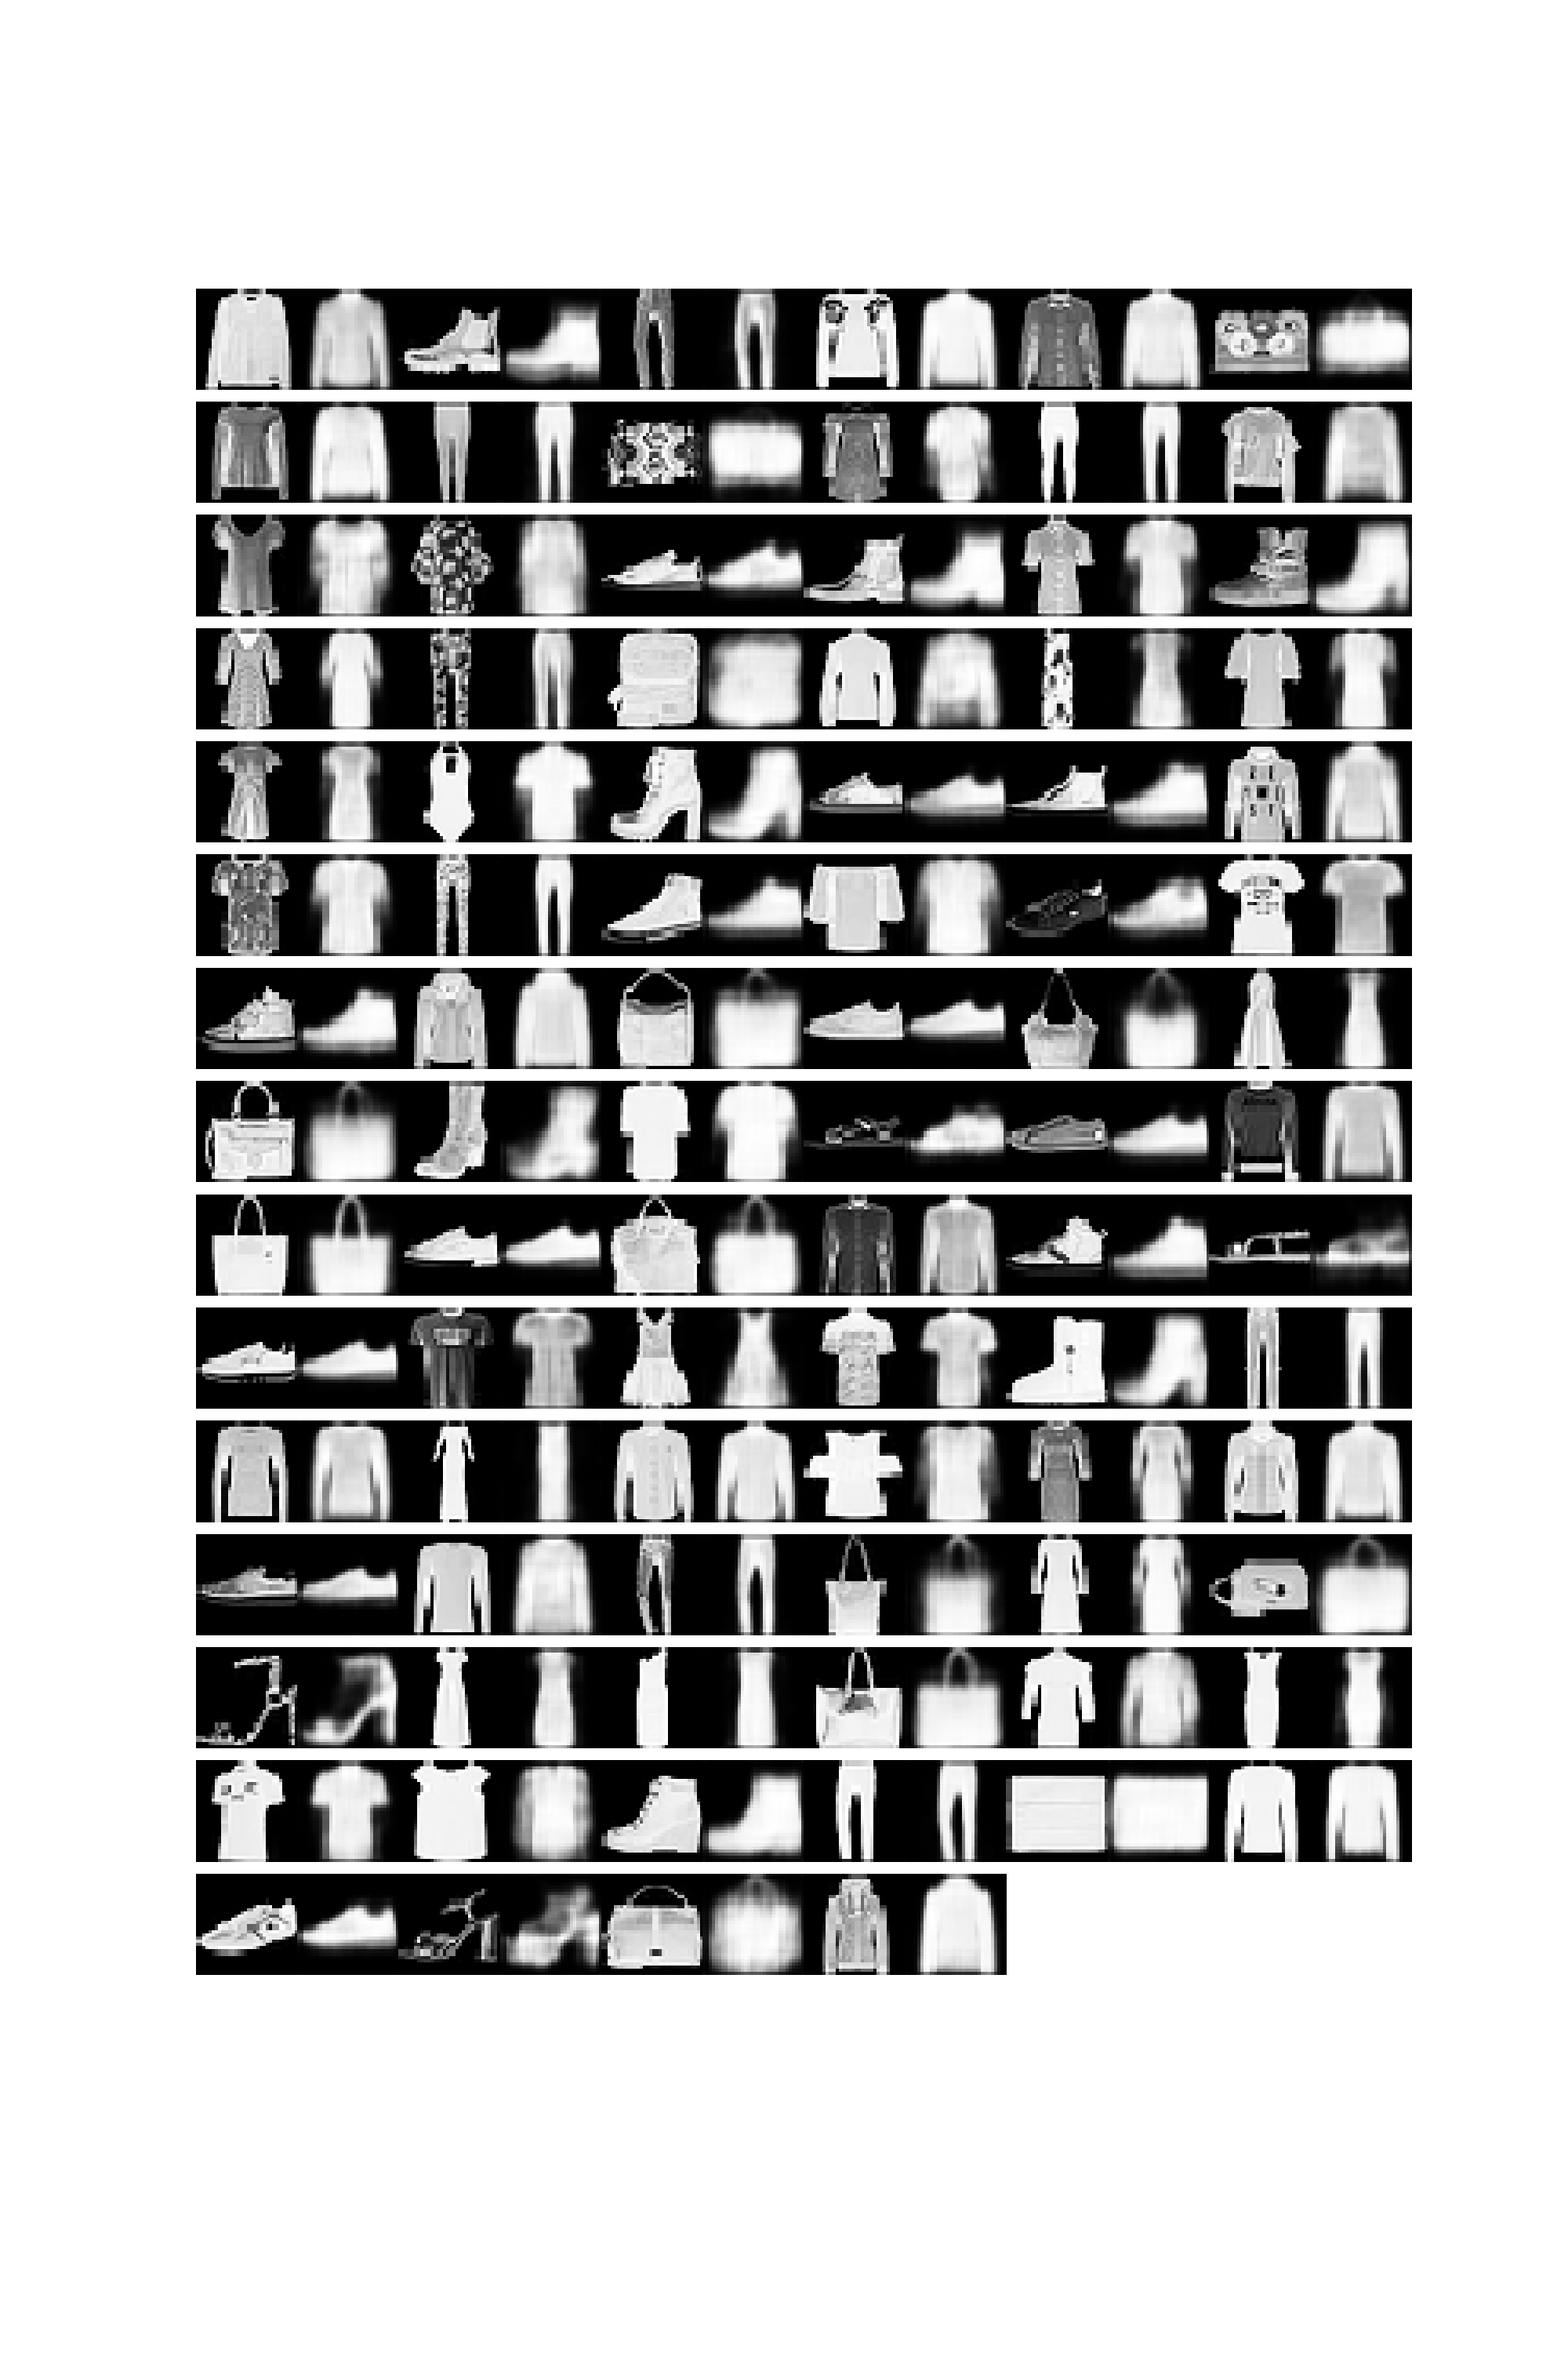
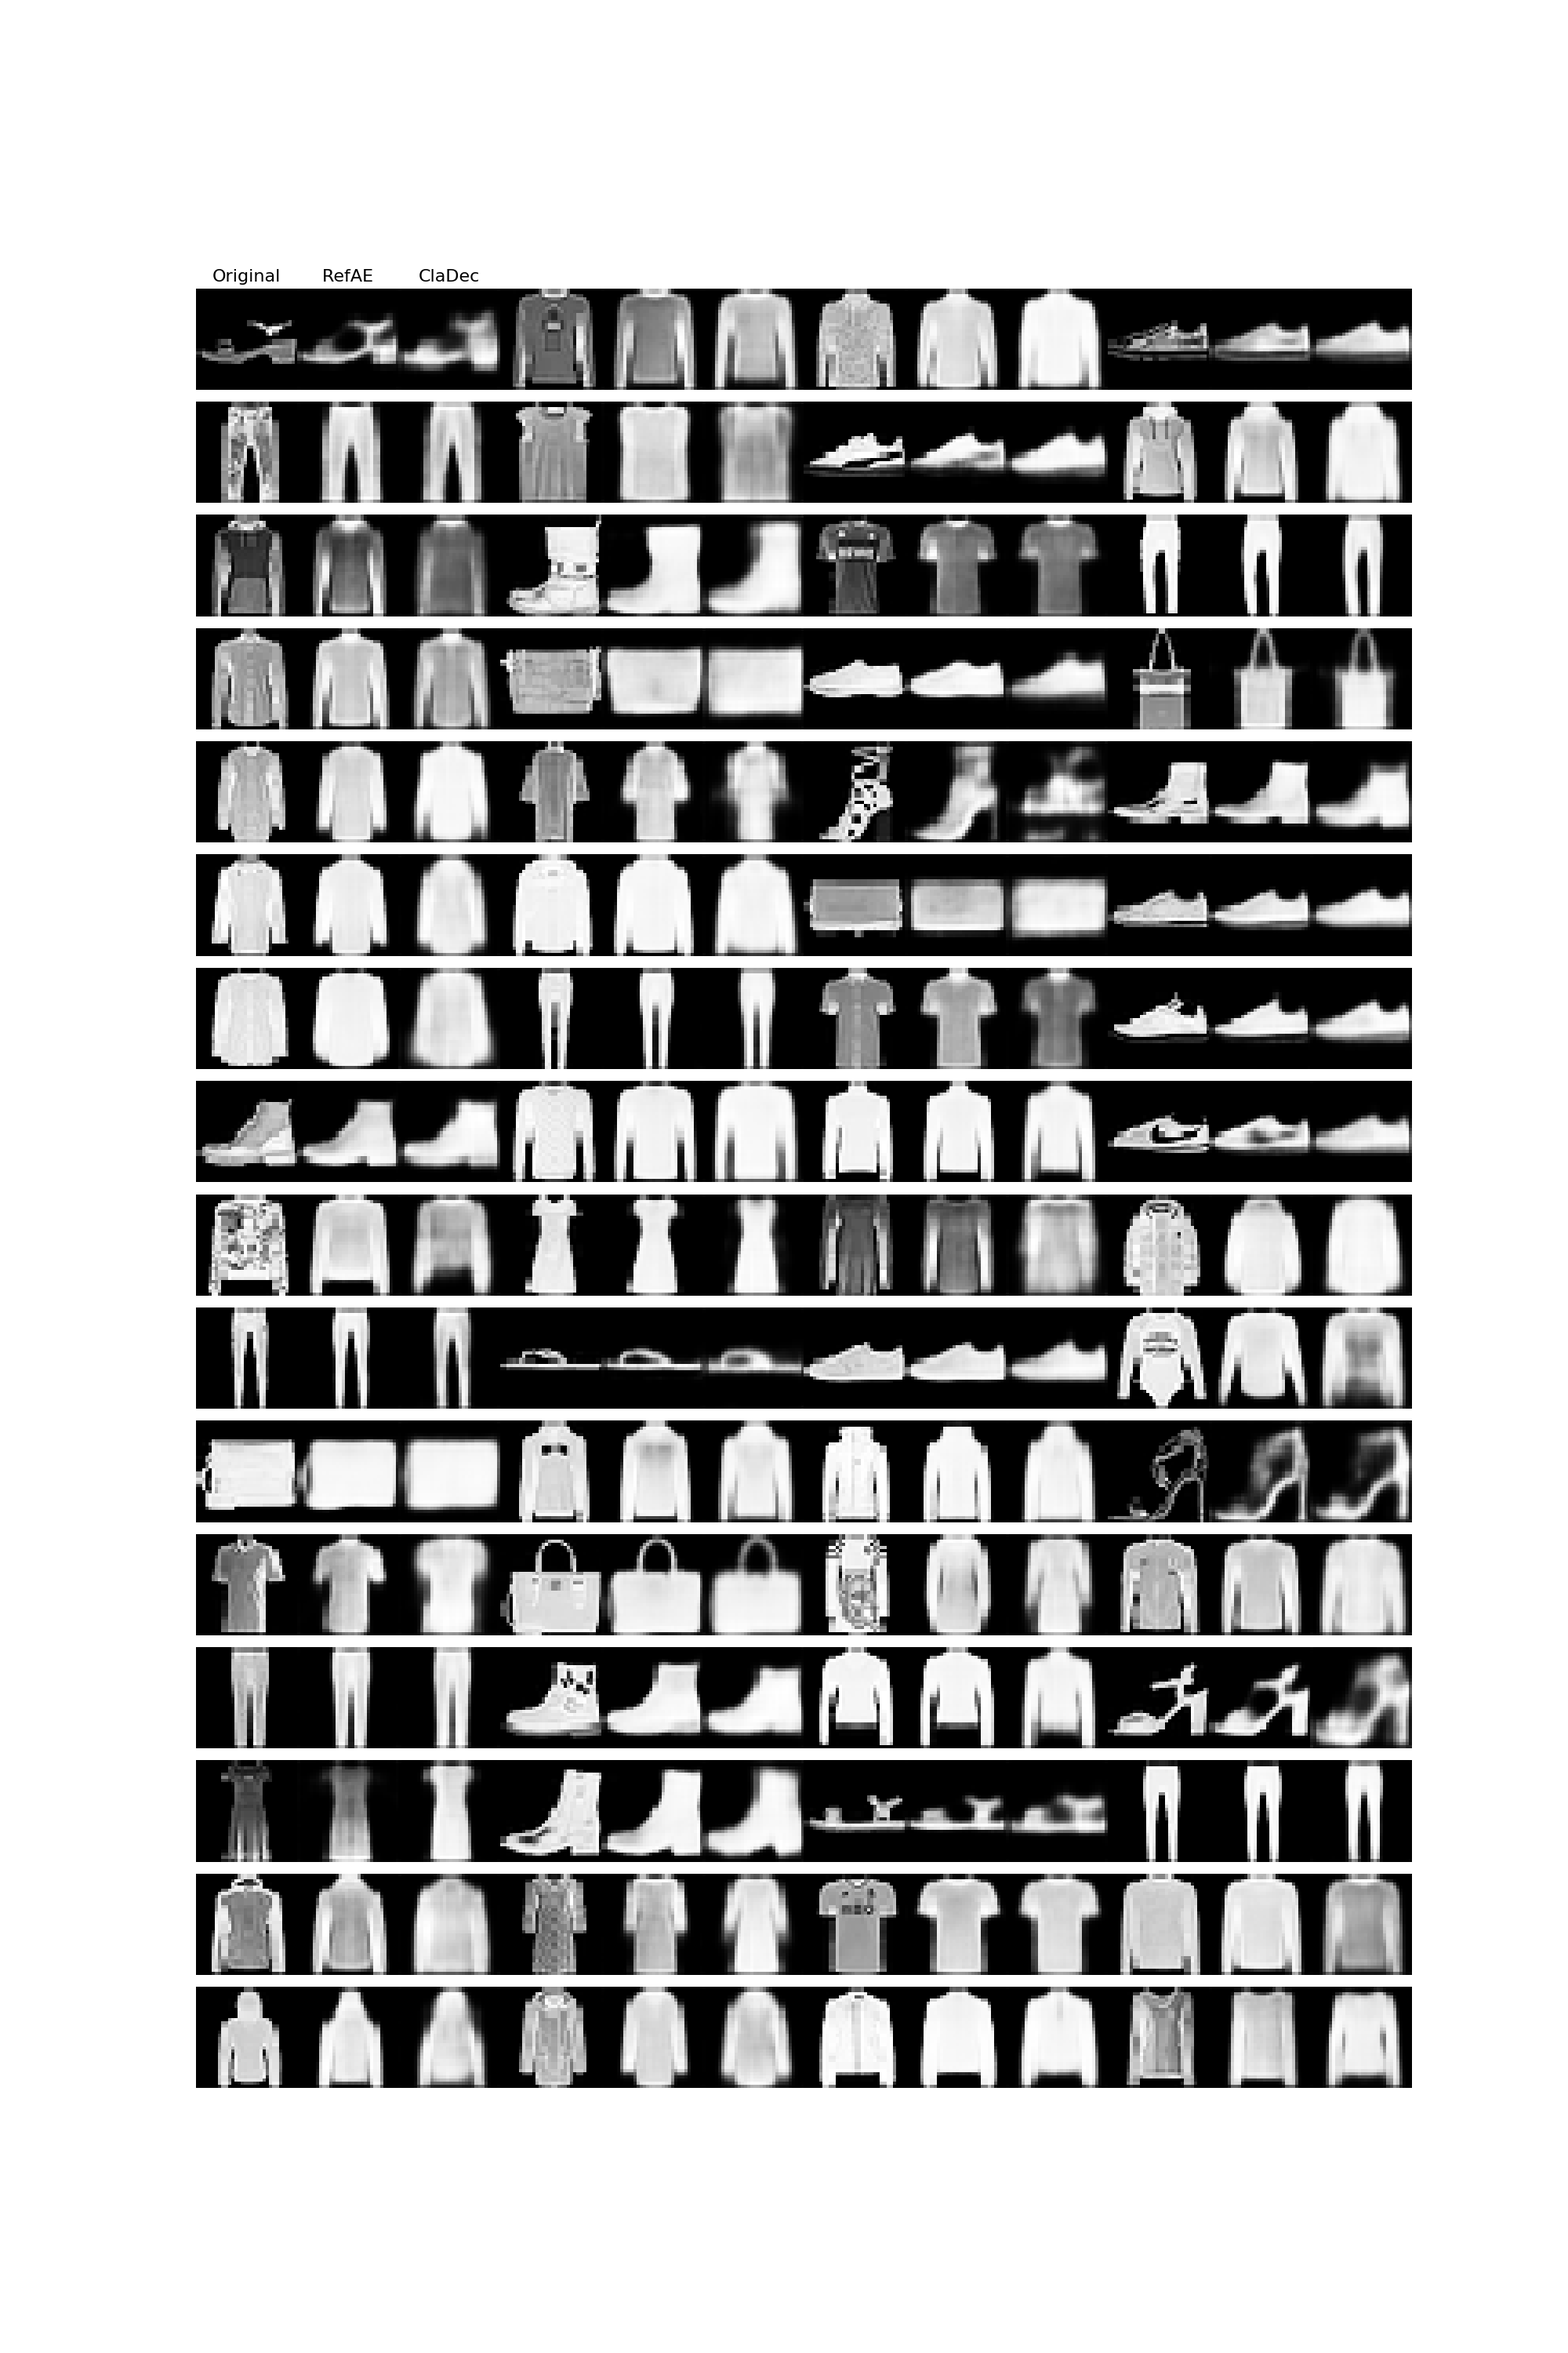
RefAE

diff --git a/runMe.py b/runMe.py
@@ -16,8 +16,8 @@ def showPics(pics, mtit="", tits =None,nrows = 16,ncols=12,fname="expPics"):
         for j in range(picPerFig):
             if i * picPerFig + j == pics.shape[0]: break
             ax1 = plt.subplot(nrows, (picPerFig - 1) // nrows + 1, j + 1)
-            if not tits is None:
-               tit=ax1.set_title(str(tits[i*picPerFig + j]), fontsize=10)
+            if not tits is None and i*picPerFig + j<len(tits):
+               tit=ax1.set_title(str(tits[i*picPerFig + j]), fontsize=16)
                plt.setp(tit, color='black')
             cpic=pics[i * picPerFig + j].squeeze()
             ax1.set_xticklabels([])
@@ -30,34 +30,7 @@ def showPics(pics, mtit="", tits =None,nrows = 16,ncols=12,fname="expPics"):
         plt.close()
         if i * picPerFig + j >= pics.shape[0] - 1: break
 
-def trainOne():
-    dummy=False
-    #dummy = True
-    cfg={ 'ds': ('Fash', 10),  #Dataset either  ('Ci100', 100) or ('Ci10', 10)
-          'batchSize': 128, 'opt': ('S', 1 if dummy else 64, 0.1, 0.0001), #optimizer settings
-          'layInd':-2, #Layer to explain (from last layer back, ie. -1 is last)
-          'alpha': 0.01, #tradeoff parameter reconstruction vs. classification loss
-          'ntrain': 500 if dummy else 60000}
-    print("Executing config",cfg)
-    cfg["num_classes"]=cfg["ds"][1]
-    #Get Data
-    print("Get dataset")
-    train_dataset, val_dataset,norm=dutils.getFullDS(cfg)
-
-    # Train and save non-reflective Model
-    classifier, lcfg = clModel.getclassifier(cfg,  train_dataset, val_dataset, norm=norm)
-    print("Classifier Accuracy",lcfg)
-
-    acts = []
-    def get_activation():
-        def hook(model, input, output):
-            nonlocal acts
-            acts.append(output.detach().cpu())
-        return hook
-    laytoExp = classifier.allExplainLays[cfg["layInd"]]
-    laytoExp.register_forward_hook(get_activation())
-    def getActs(ds):
-        nonlocal acts
+def getActs(ds,actModel,cfg):
         acts=[]
         X,y=[],[]
         for i, data in enumerate(ds):
@@ -65,33 +38,63 @@ def trainOne():
                 dsx, dsy = data[0].cuda(), data[1].cuda()
                 X.append(data[0])
                 y.append(data[1])
-                classifier(dsx)
+                #classifier(dsx)
+                acts.append(actModel(dsx).detach().cpu())
         X=torch.cat(X,dim=0)
         y=torch.cat(y, dim=0)
         conacts=torch.cat(acts,dim=0)
         dsact=TensorDataset(X,y,conacts)
         return torch.utils.data.DataLoader(dsact, batch_size=cfg["batchSize"], shuffle=True, num_workers=4)
-    trds=getActs(train_dataset)
+
+def trainOne():
+    dummy=False
+    #dummy = True
+    cfg={ 'ds': ('Fash', 10),  #Dataset either  ('Ci100', 100) or ('Ci10', 10)
+          'batchSize': 128, 'opt': ('S', 1 if dummy else 64, 0.1, 0.0001), #optimizer settings
+          'layInd':-1, #Layer to explain (from last layer back, ie. -1 is last (linear), -2 is last conv, -3 second last conv)
+          'alpha': 0.001, #tradeoff parameter reconstruction vs. classification loss
+          'ntrain': 500 if dummy else 60000}
+    print("Executing config",cfg)
+    cfg["num_classes"]=cfg["ds"][1]
+    #Get Data
+    print("Get dataset")
+    train_dataset, val_dataset,norm=dutils.getFullDS(cfg)
+
+
+
+    # Train and save non-reflective Model
+    classifier, lcfg = clModel.getclassifier(cfg,  train_dataset, val_dataset, norm=norm)
+    print("Classifier Accuracy",lcfg)
+
+    #get Activations
+    actModel = cladec.getActModel(cfg, classifier)
+    actModel.eval()
+    trds=getActs(train_dataset,actModel,cfg)
+
+    #get RefAE
+    refAE,rcfg =cladec.getRefAE(cfg,trds) #Does not use activations themselves, only needs shape
 
     # Train ClaDec
     cladecNet,ccfg=  cladec.getClaDec(cfg,classifier,norm,trds)
     print("ClaDec Final loss", ccfg)
 
     #Explain
-    teds = getActs(val_dataset)
+    teds = getActs(val_dataset,actModel,cfg)
     allimgs=[]
     foldname = "imgs_Lay_" + str(cfg["layInd"]) + "_alpha_" + str(cfg["alpha"]) + "/"
     os.makedirs(foldname, exist_ok=True)
     for i, data in enumerate(teds):
         with tca.autocast():
             dsx, dsy,dsact = data[0].cuda(), data[1].cuda(), data[2].cuda()
-            output = cladecNet(dsact)
+            outCla = cladecNet(dsact)
+            outAE = refAE(dsx)
             for j in range(data[0].shape[0]):
                 allimgs.append(data[0][j].numpy())
-                allimgs.append(output[j].detach().cpu().numpy())
-                if len(allimgs)==16*11: break
-            if len(allimgs) == 16 * 11: break
-    showPics(np.array(allimgs),fname=foldname+"Vis_Orig_AndClaDec")
+                allimgs.append(outAE[j].detach().cpu().numpy())
+                allimgs.append(outCla[j].detach().cpu().numpy())
+                if len(allimgs)==16*12: break
+            if len(allimgs) == 16 * 12: break
+    showPics(np.array(allimgs),fname=foldname+"Vis_Orig_AndClaDec",tits=["Original","RefAE","ClaDec"])
 
 if __name__ == '__main__':
     trainOne()

diff --git a/cladec.py b/cladec.py
@@ -79,3 +79,55 @@ def getClaDec(cfg,netCl,norm,train_dataset):
     lcfg = {"ClaLo": closs}
     netDec.eval()
     return netDec,lcfg
+
+def getActModel(cfg,classifier):
+    ind = cfg["layInd"]
+    if ind<-1: ind=ind-2
+    actModel = nn.Sequential(*list(classifier.children())[:ind])
+    actModel.eval()
+    return actModel
+
+class RefAE(nn.Module):
+    def __init__(self, cfg,inShape):
+        super(RefAE, self).__init__()
+        self.cladec=ClaDecNet(cfg, inShape, cfg["imCh"])
+        self.cladec.train()
+        from models import Classifier
+        cla=Classifier(cfg)
+        actModel=getActModel(cfg,cla)
+        actModel.train()
+        self.seq=nn.Sequential(actModel,self.cladec)
+
+
+    def forward(self, x):
+        return self.seq(x)
+
+
+def getRefAE(cfg,train_dataset):
+    closs, teaccs, trep, clloss, clr = 0, [], cfg["opt"][1], nn.CrossEntropyLoss(), cfg["opt"][2]
+    print("Train RefAE")
+    scaler = tca.GradScaler()
+    d=next(iter(train_dataset))
+    netDec=RefAE(cfg, d[2].shape).cuda()
+    netDec.train()
+    optimizerCl = torch.optim.Adam(netDec.parameters(), lr=0.0003, weight_decay=1e-5)
+    aeloss=nn.MSELoss()
+    ulo=lambda closs,totloss,i: 0.97 * closs + 0.03 * totloss.item() if epoch > 20 else 0.8 * closs + 0.2 * totloss.item()
+    for epoch in range(trep):
+        for i, data in enumerate(train_dataset):
+            with tca.autocast():
+                optimizerCl.zero_grad()
+                dsx, dsy = data[0].cuda(), data[1].cuda()
+                output = netDec(dsx.float())
+                recloss = aeloss(output,dsx)
+                scaler.scale(recloss).backward()
+                scaler.step(optimizerCl)
+                scaler.update()
+                closs=ulo(closs,recloss,epoch)
+
+        decay(cfg["opt"], epoch, optimizerCl)
+        if (epoch % 2 == 0 and epoch <= 10) or (epoch % 10 == 0 and epoch > 10): print(epoch, np.round(np.array([closs]), 5))
+
+    lcfg = {"RefAELo": closs}
+    netDec.eval()
+    return netDec,lcfg

diff --git a/README.md b/README.md
@@ -7,10 +7,9 @@ It uses Python and Pytorch (The original code in the paper used TensorFlow).
 
 It creates plots showing original and reconstructed samples (Explanations) by ClaDec. Things that are blurry or poorly reconstructed are not very relevant for classification. Sharp and well-matching parts between original and explanation are more important to the classifier. It can be observed, for example, that color (or grey scale information) or patterns (of clothes) are not relevant for the classifier, while shape is.
 
-In the paper, you can see more samples, more explanation and a theoretical motivation.  In particular, a comparison with a reference decoder is shown
+In the paper, you can see more samples, in particular a comparison with a reference decoder.
 
-# Original and Explanations for last (logit) Layer
+
 ![Original and Explanations for last (logit) Layer](OrigVsClaDec-Lay-1.png)
 
-# Original and Explanations for last conv Layer
 ![Original and Explanations for last conv Layer](OrigVsClaDec-Lay-2.png)
